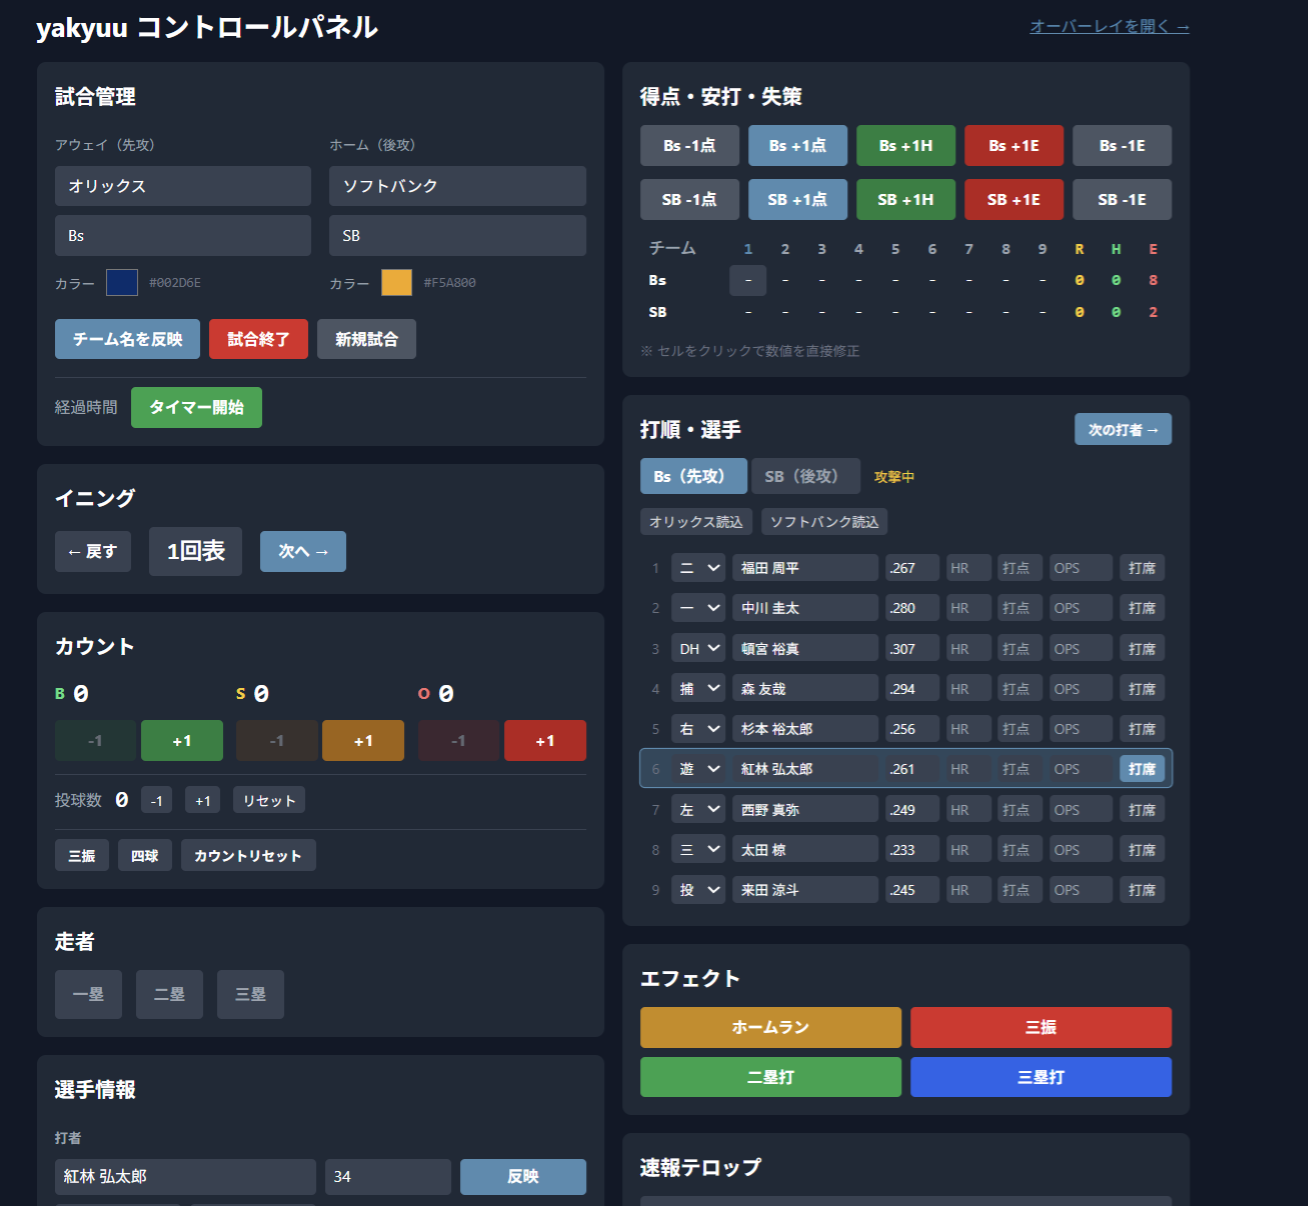
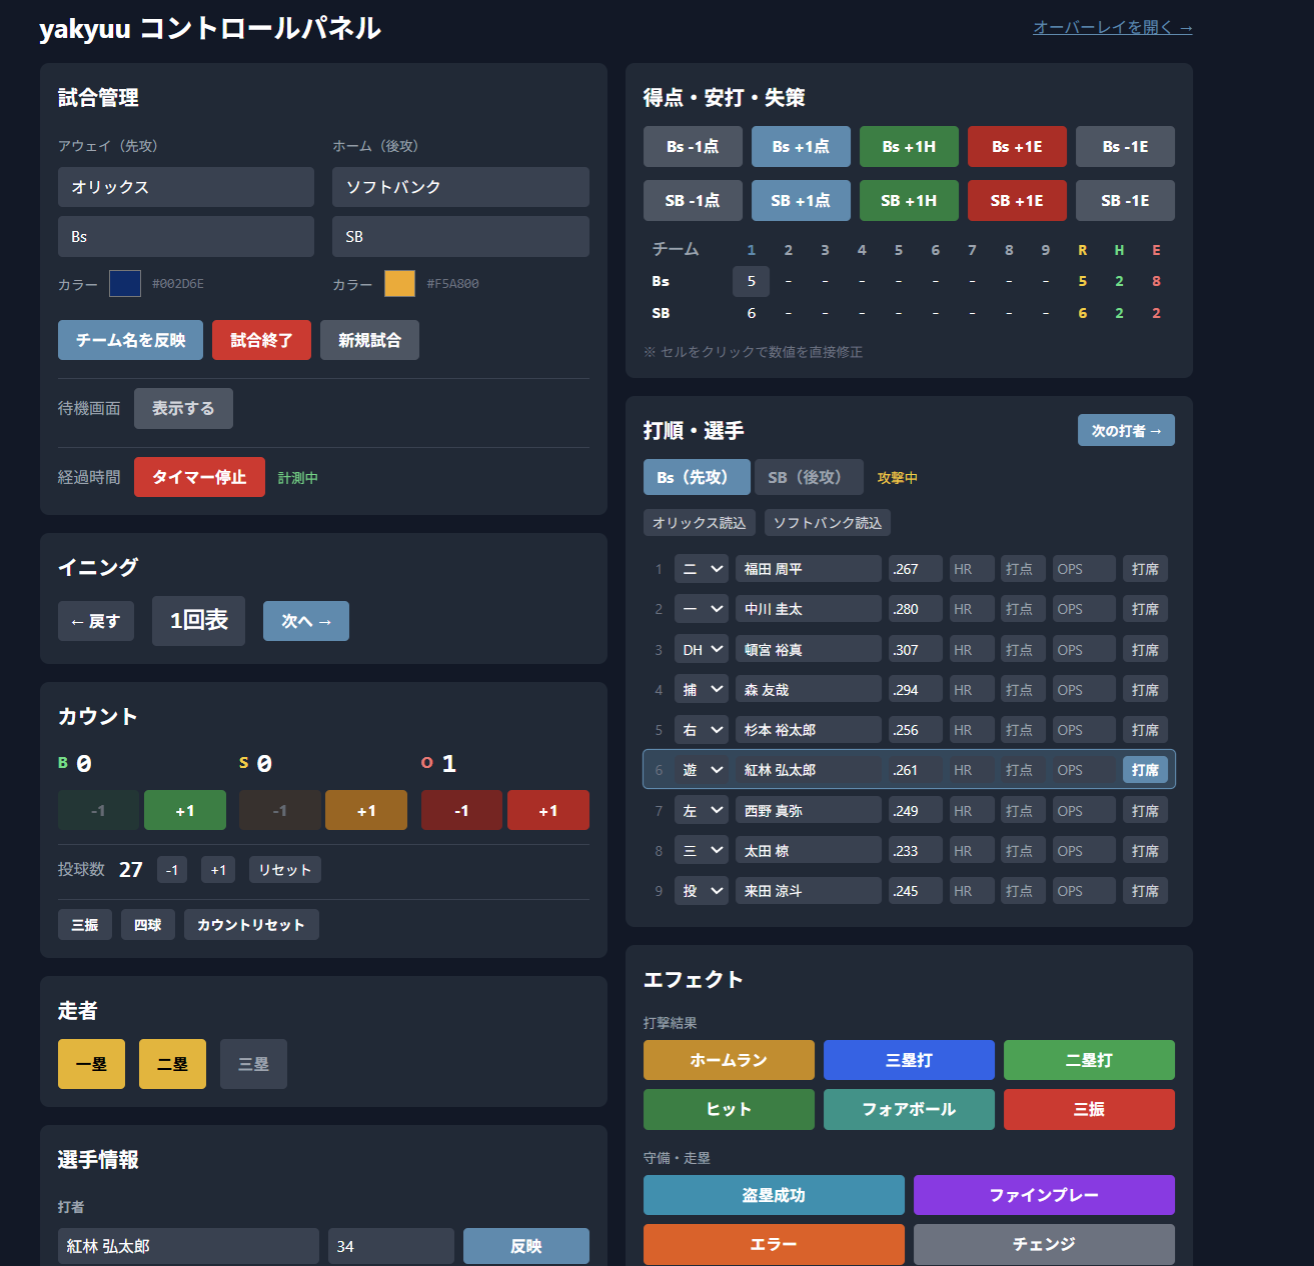
docs: README更新 + スクリーンショット・デモGIF追加
マスコット・エフェクト拡張・待機画面の新機能を反映。
操作デモGIF、試合進行中のオーバーレイ、コントロールパネルのスクショを追加。

diff --git a/README.md b/README.md
@@ -5,22 +5,38 @@
 
 **Demo**: [https://tsubasagit.github.io/yakyuu/](https://tsubasagit.github.io/yakyuu/)
 
+![デモ](docs/demo.gif)
+
 ## スクリーンショット
 
 ### オーバーレイ（OBSブラウザソース）
 
 ![オーバーレイ](docs/overlay.png)
 
-透明背景のスコアボード・打順カード・打者/投手情報を配信映像に重ねて表示。
-ホームランや三振時のエフェクトアニメーションも対応。
+透明背景のスコアボード・打順カード・打者/投手情報・マスコットを配信映像に重ねて表示。
+全パネルをドラッグで自由に配置できます。
+
+#### 試合進行中
+
+![試合進行中](docs/overlay-game.png)
+
+スコア・BSO・走者・球数・経過時間がリアルタイムに反映。マスコット（ラピットくん）が試合を盛り上げます。
+
+#### エフェクト演出
 
 ![エフェクト](docs/effect.png)
+
+ホームラン・三振・ヒット・盗塁・ファインプレー・エラー・フォアボール・チェンジなど10種類のエフェクトアニメーション。3アウト時のチェンジ演出は全幅スライドバナーで自動発火します。
 
 ### コントロールパネル
 
 ![コントロールパネル](docs/control.png)
 
 スコアキーパーが操作する画面。チーム・選手・スコア・カウントをリアルタイムに操作できます。
+
+![コントロールパネル下部](docs/control-bottom.png)
+
+マスコットの表示切替・画像アップロード、エフェクト発火、速報テロップ、経過ログもここから操作。
 
 ## 機能
 
@@ -30,8 +46,12 @@
 - 走者ダイヤモンド表示
 - 攻撃チームの打順カード（打率・HR・打点・OPS）
 - 投手情報（登板数・勝敗・投球数）
-- 演出エフェクト（ホームラン・三振・二塁打・三塁打）
+- 演出エフェクト10種（ホームラン・三振・二塁打・三塁打・ヒット・盗塁・ファインプレー・エラー・フォアボール・チェンジ）
+- 3アウト時チェンジ演出の自動発火（チームカラー付き全幅バナー）
+- マスコット表示（通常・お祝い・考え中モード + カスタム画像対応）
+- 試合前待機画面（「まもなく試合開始」+ チーム名表示）
 - 速報テロップ（ティッカー表示）
+- 経過時間タイマー
 - ドラッグで各パネルの位置を自由に配置
 
 ### コントロールパネル (`/#/control`)
@@ -42,7 +62,10 @@
 - 9人の野手登録（打率・HR・打点・OPS）
 - 投手を10番目の選手として登録（登板数・勝敗）
 - 走者ON/OFF
-- プレーバイプレーログ
+- エフェクト発火（打撃結果 / 守備・走塁の2カテゴリ）
+- マスコットON/OFF・モード切替・画像アップロード
+- 試合前待機画面の表示/非表示
+- プレーバイプレーログ（テンプレートボタン付き）
 - デモデータプリセット読み込み
 
 ## 使い方
@@ -50,9 +73,15 @@
 1. [コントロールパネル](https://tsubasagit.github.io/yakyuu/#/control) をブラウザで開く
 2. チーム名・選手情報を入力（デモデータのプリセットも用意）
 3. OBSで「ブラウザソース」を追加し、URL に `https://tsubasagit.github.io/yakyuu/#/overlay` を設定
+   - 幅: 1920、高さ: 1080 推奨
 4. コントロールパネルで試合を操作すると、オーバーレイにリアルタイム反映
 
 > **Note**: コントロールパネルとオーバーレイは同じブラウザ内の別タブで開いてください（BroadcastChannel APIによる同期のため）。
+
+### マスコット画像のカスタマイズ
+
+コントロールパネルの「マスコット」セクションから、好きな画像をアップロードできます。
+通常・お祝い・考え中の3モードそれぞれに異なる画像を設定可能。画像はブラウザに保存されるため、再度アップロードする必要はありません。
 
 ## 技術スタック
 
